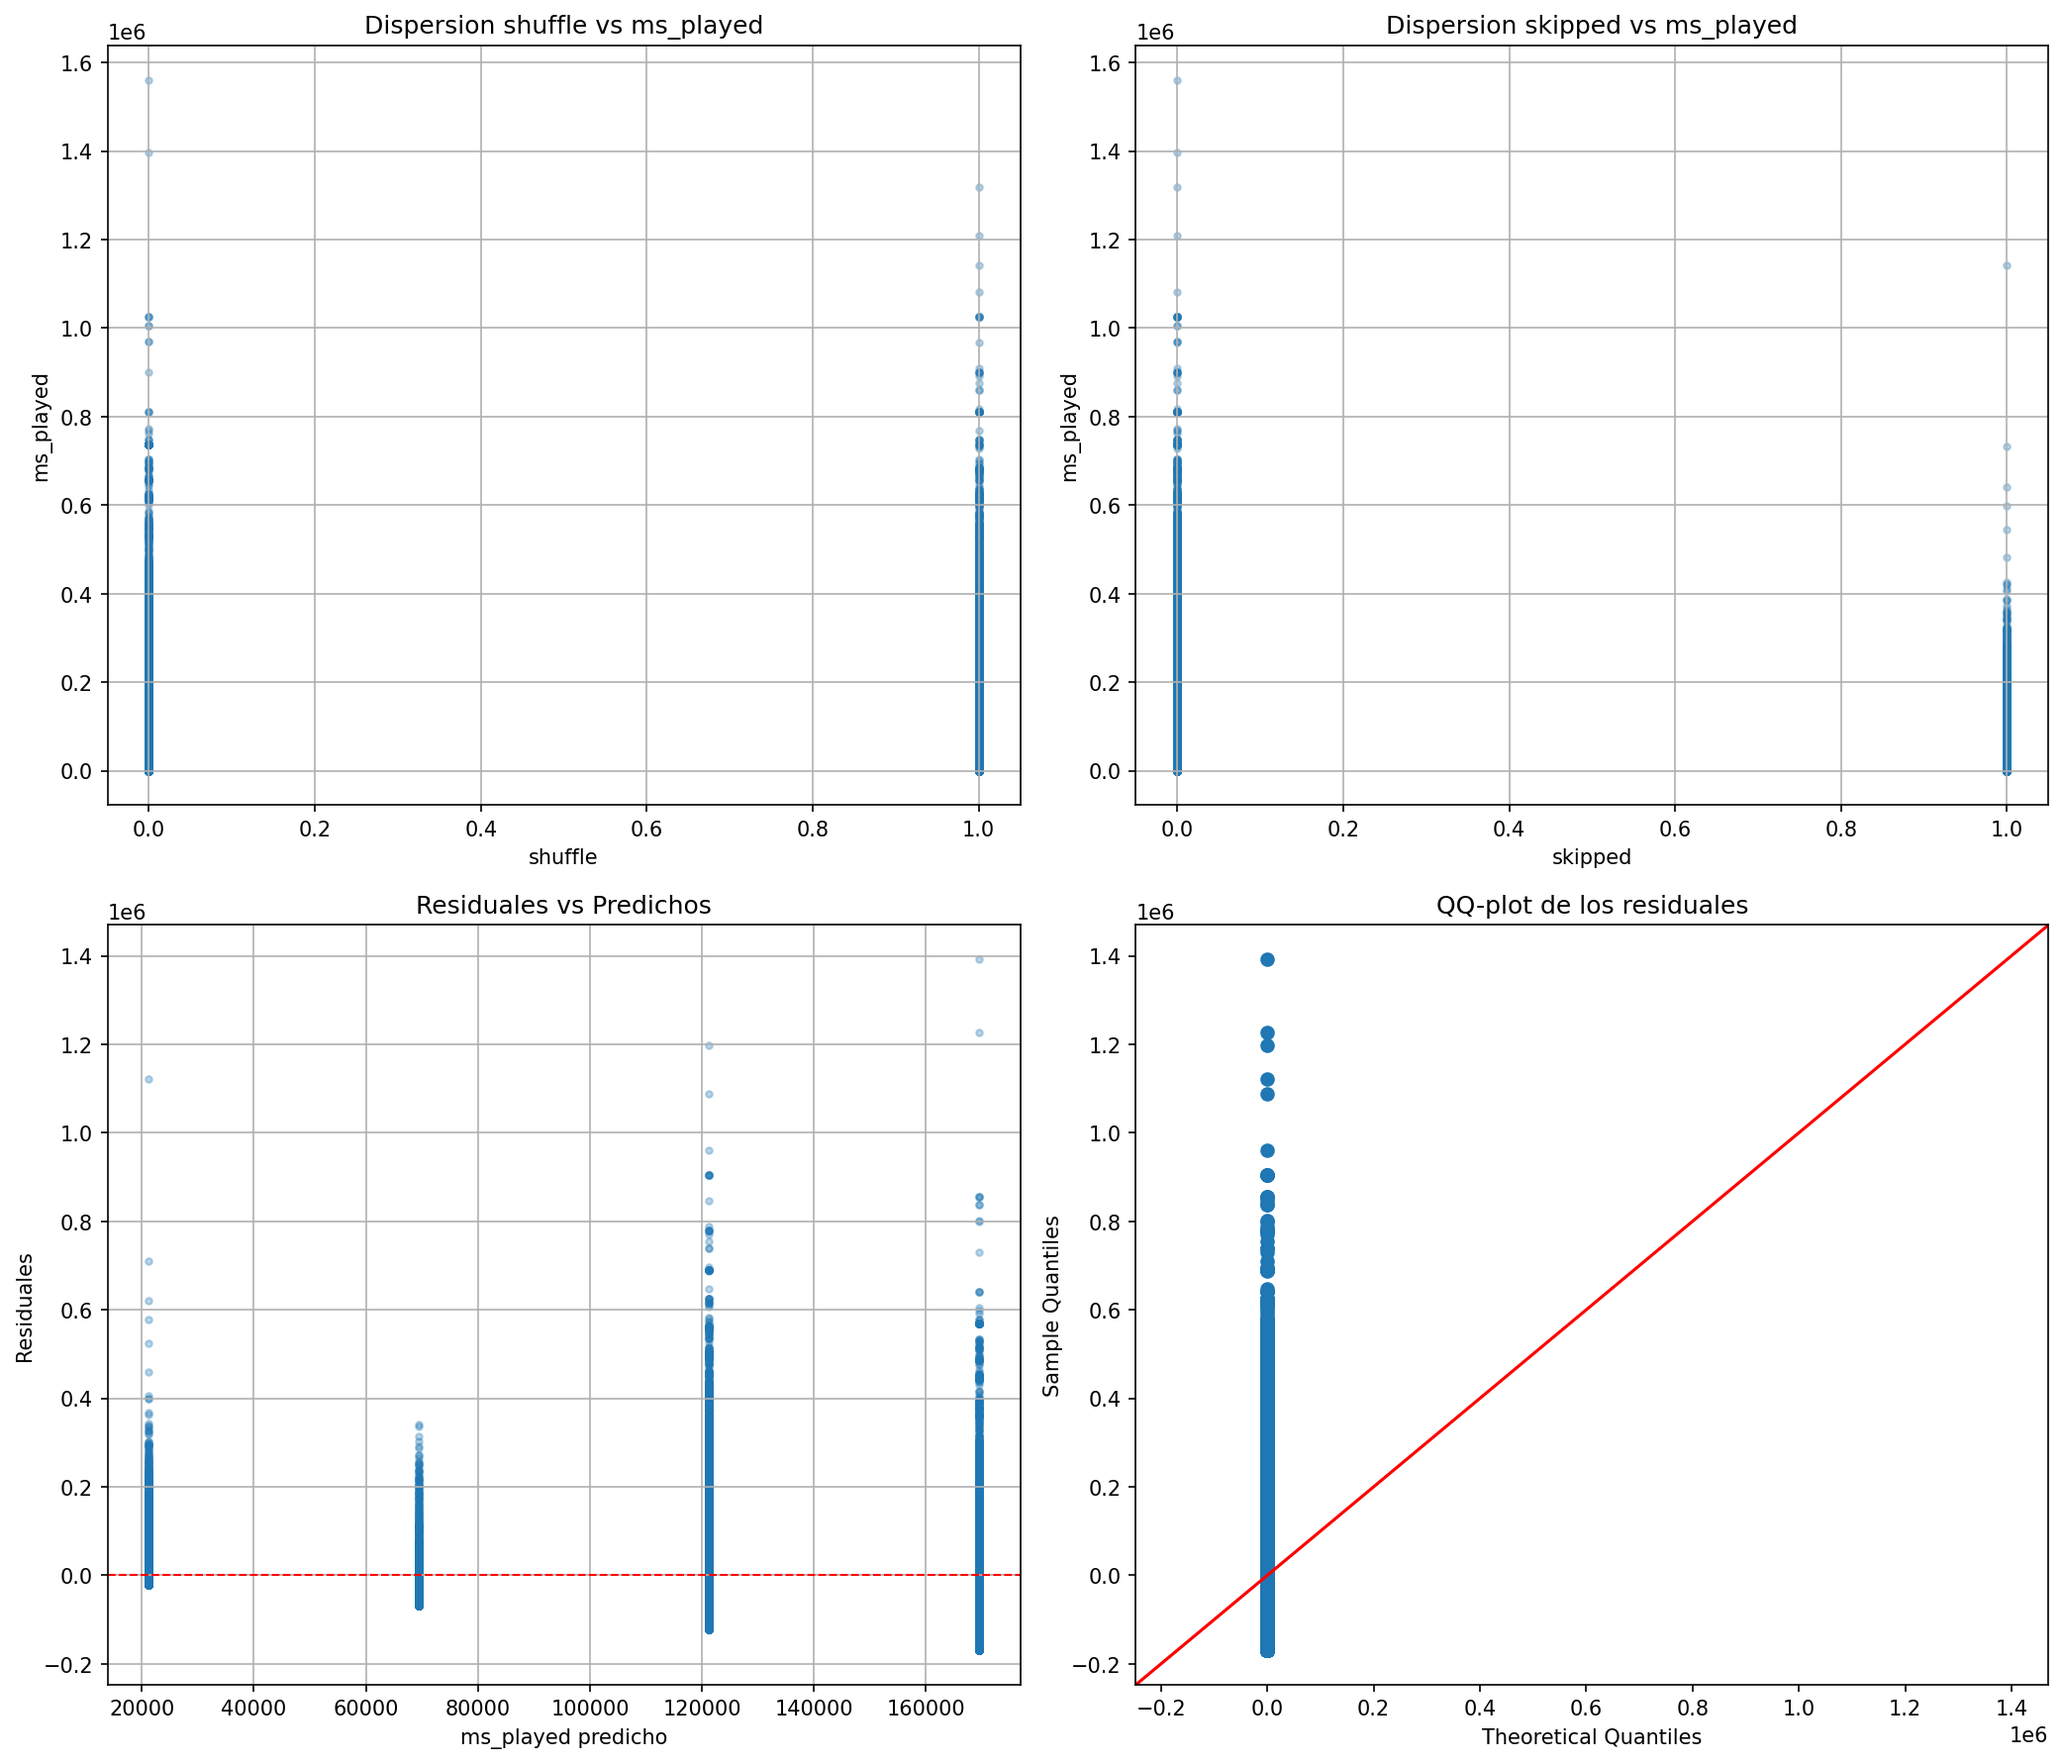
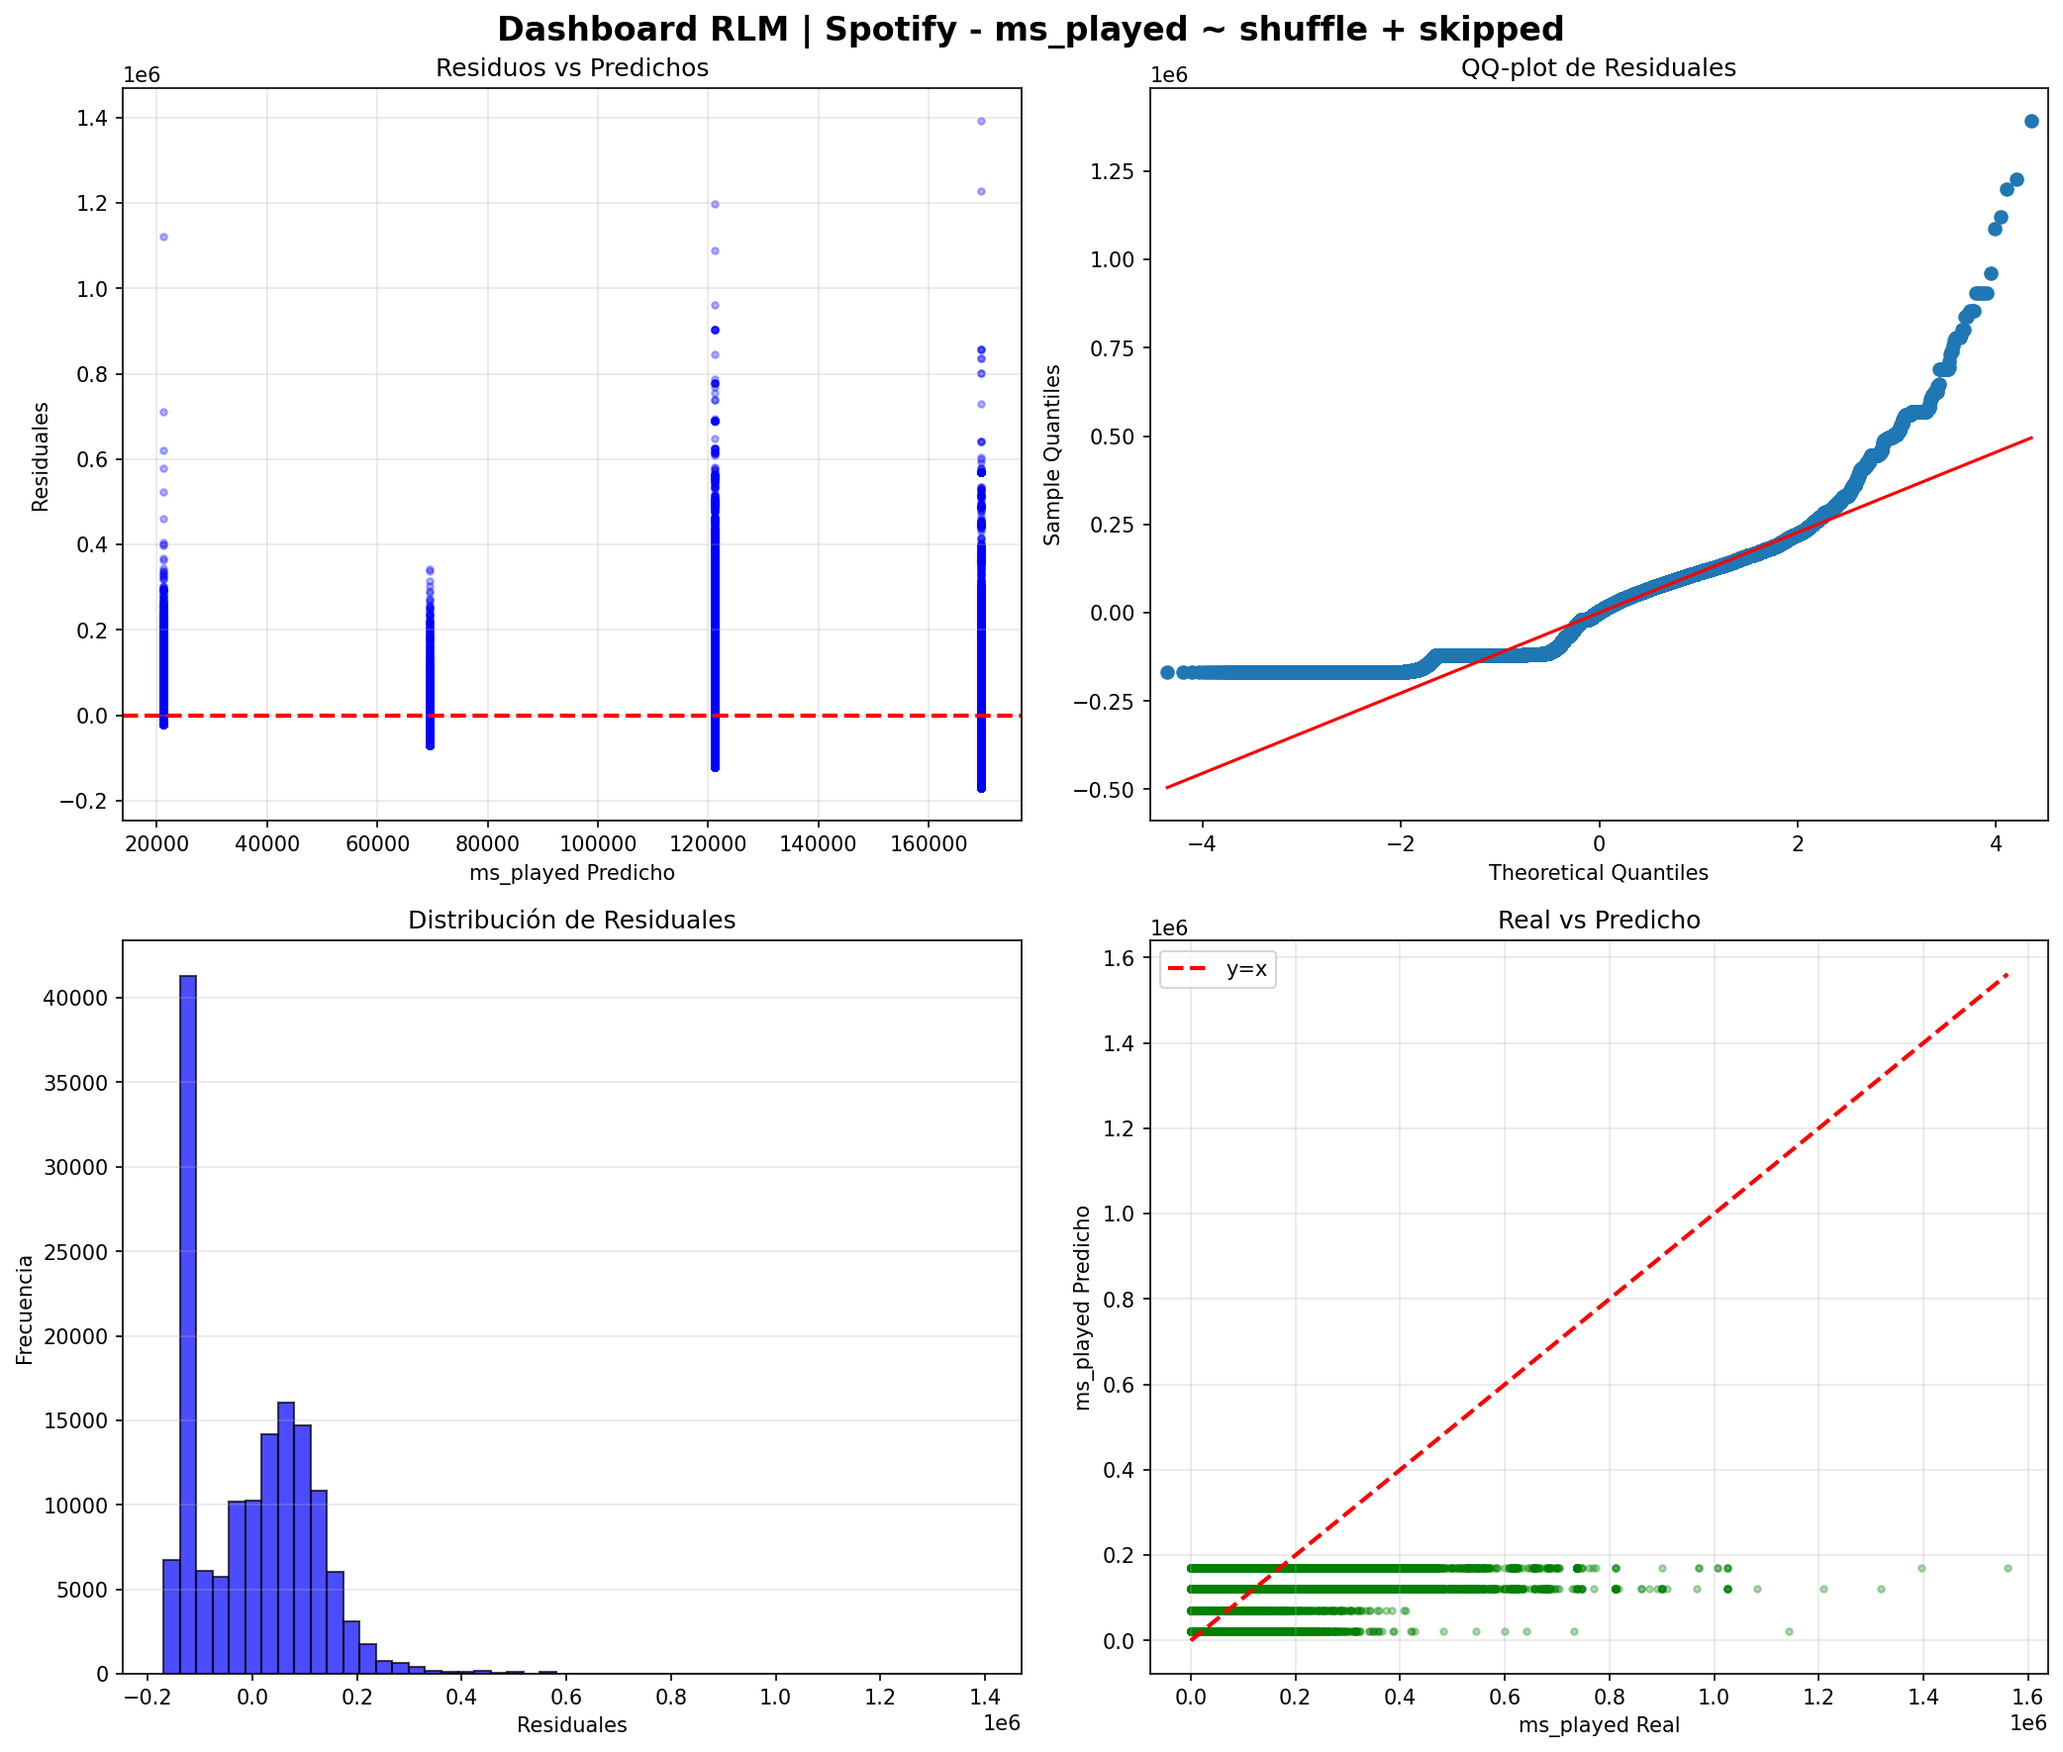
Dashboard actualizado: 4 gráficas (Residuos vs Predichos, QQ-plot, Histograma, Real vs Predicho)

diff --git a/PF_matricula.py b/PF_matricula.py
@@ -199,32 +199,43 @@ print("\n" + "="*70)
 print("DASHBOARD DE GRÁFICOS")
 print("="*70)
 fig, axes = plt.subplots(2, 2, figsize=(14, 12))
+fig.suptitle('Dashboard RLM | Spotify - ms_played ~ shuffle + skipped', fontsize=16, fontweight='bold')
 
-axes[0, 0].scatter(df['shuffle'], df['ms_played'], alpha=0.3, s=10)
-axes[0, 0].set_xlabel('shuffle')
-axes[0, 0].set_ylabel('ms_played')
-axes[0, 0].set_title('Dispersion shuffle vs ms_played')
-axes[0, 0].grid(True)
+# Arriba izquierda: Residuos vs Predichos
+axes[0, 0].scatter(predicciones_completas, residuales, color='blue', alpha=0.3, s=10)
+axes[0, 0].axhline(0, color='red', linestyle='--', linewidth=2)
+axes[0, 0].set_xlabel('ms_played Predicho')
+axes[0, 0].set_ylabel('Residuales')
+axes[0, 0].set_title('Residuos vs Predichos')
+axes[0, 0].grid(True, alpha=0.3)
 
-axes[0, 1].scatter(df['skipped'], df['ms_played'], alpha=0.3, s=10)
-axes[0, 1].set_xlabel('skipped')
-axes[0, 1].set_ylabel('ms_played')
-axes[0, 1].set_title('Dispersion skipped vs ms_played')
-axes[0, 1].grid(True)
+# Arriba derecha: QQ-plot
+sm.qqplot(residuales, line='s', ax=axes[0, 1])
+axes[0, 1].set_title('QQ-plot de Residuales')
 
-axes[1, 0].scatter(predicciones_completas, residuales, alpha=0.3, s=10)
-axes[1, 0].axhline(0, color='red', linestyle='--', linewidth=1)
-axes[1, 0].set_xlabel('ms_played predicho')
-axes[1, 0].set_ylabel('Residuales')
-axes[1, 0].set_title('Residuales vs Predichos')
-axes[1, 0].grid(True)
+# Abajo izquierda: Histograma de residuales
+axes[1, 0].hist(residuales, bins=50, color='blue', alpha=0.7, edgecolor='black')
+axes[1, 0].set_xlabel('Residuales')
+axes[1, 0].set_ylabel('Frecuencia')
+axes[1, 0].set_title('Distribución de Residuales')
+axes[1, 0].grid(True, alpha=0.3, axis='y')
 
-sm.qqplot(residuales, line='45', ax=axes[1, 1])
-axes[1, 1].set_title('QQ-plot de los residuales')
+# Abajo derecha: Real vs Predicho
+axes[1, 1].scatter(df['ms_played'], predicciones_completas, color='green', alpha=0.3, s=10)
+min_val = min(df['ms_played'].min(), predicciones_completas.min())
+max_val = max(df['ms_played'].max(), predicciones_completas.max())
+axes[1, 1].plot([min_val, max_val], [min_val, max_val], 'r--', linewidth=2, label='y=x')
+axes[1, 1].set_xlabel('ms_played Real')
+axes[1, 1].set_ylabel('ms_played Predicho')
+axes[1, 1].set_title('Real vs Predicho')
+axes[1, 1].legend()
+axes[1, 1].grid(True, alpha=0.3)
 
 plt.tight_layout()
 plt.savefig('dashboard_TUMATRICULA.png', dpi=150, bbox_inches='tight')
 print("Dashboard guardado en dashboard_TUMATRICULA.png")
+
+plt.show()
 
 print("\n" + "="*70)
 print("ANÁLISIS COMPLETADO")
